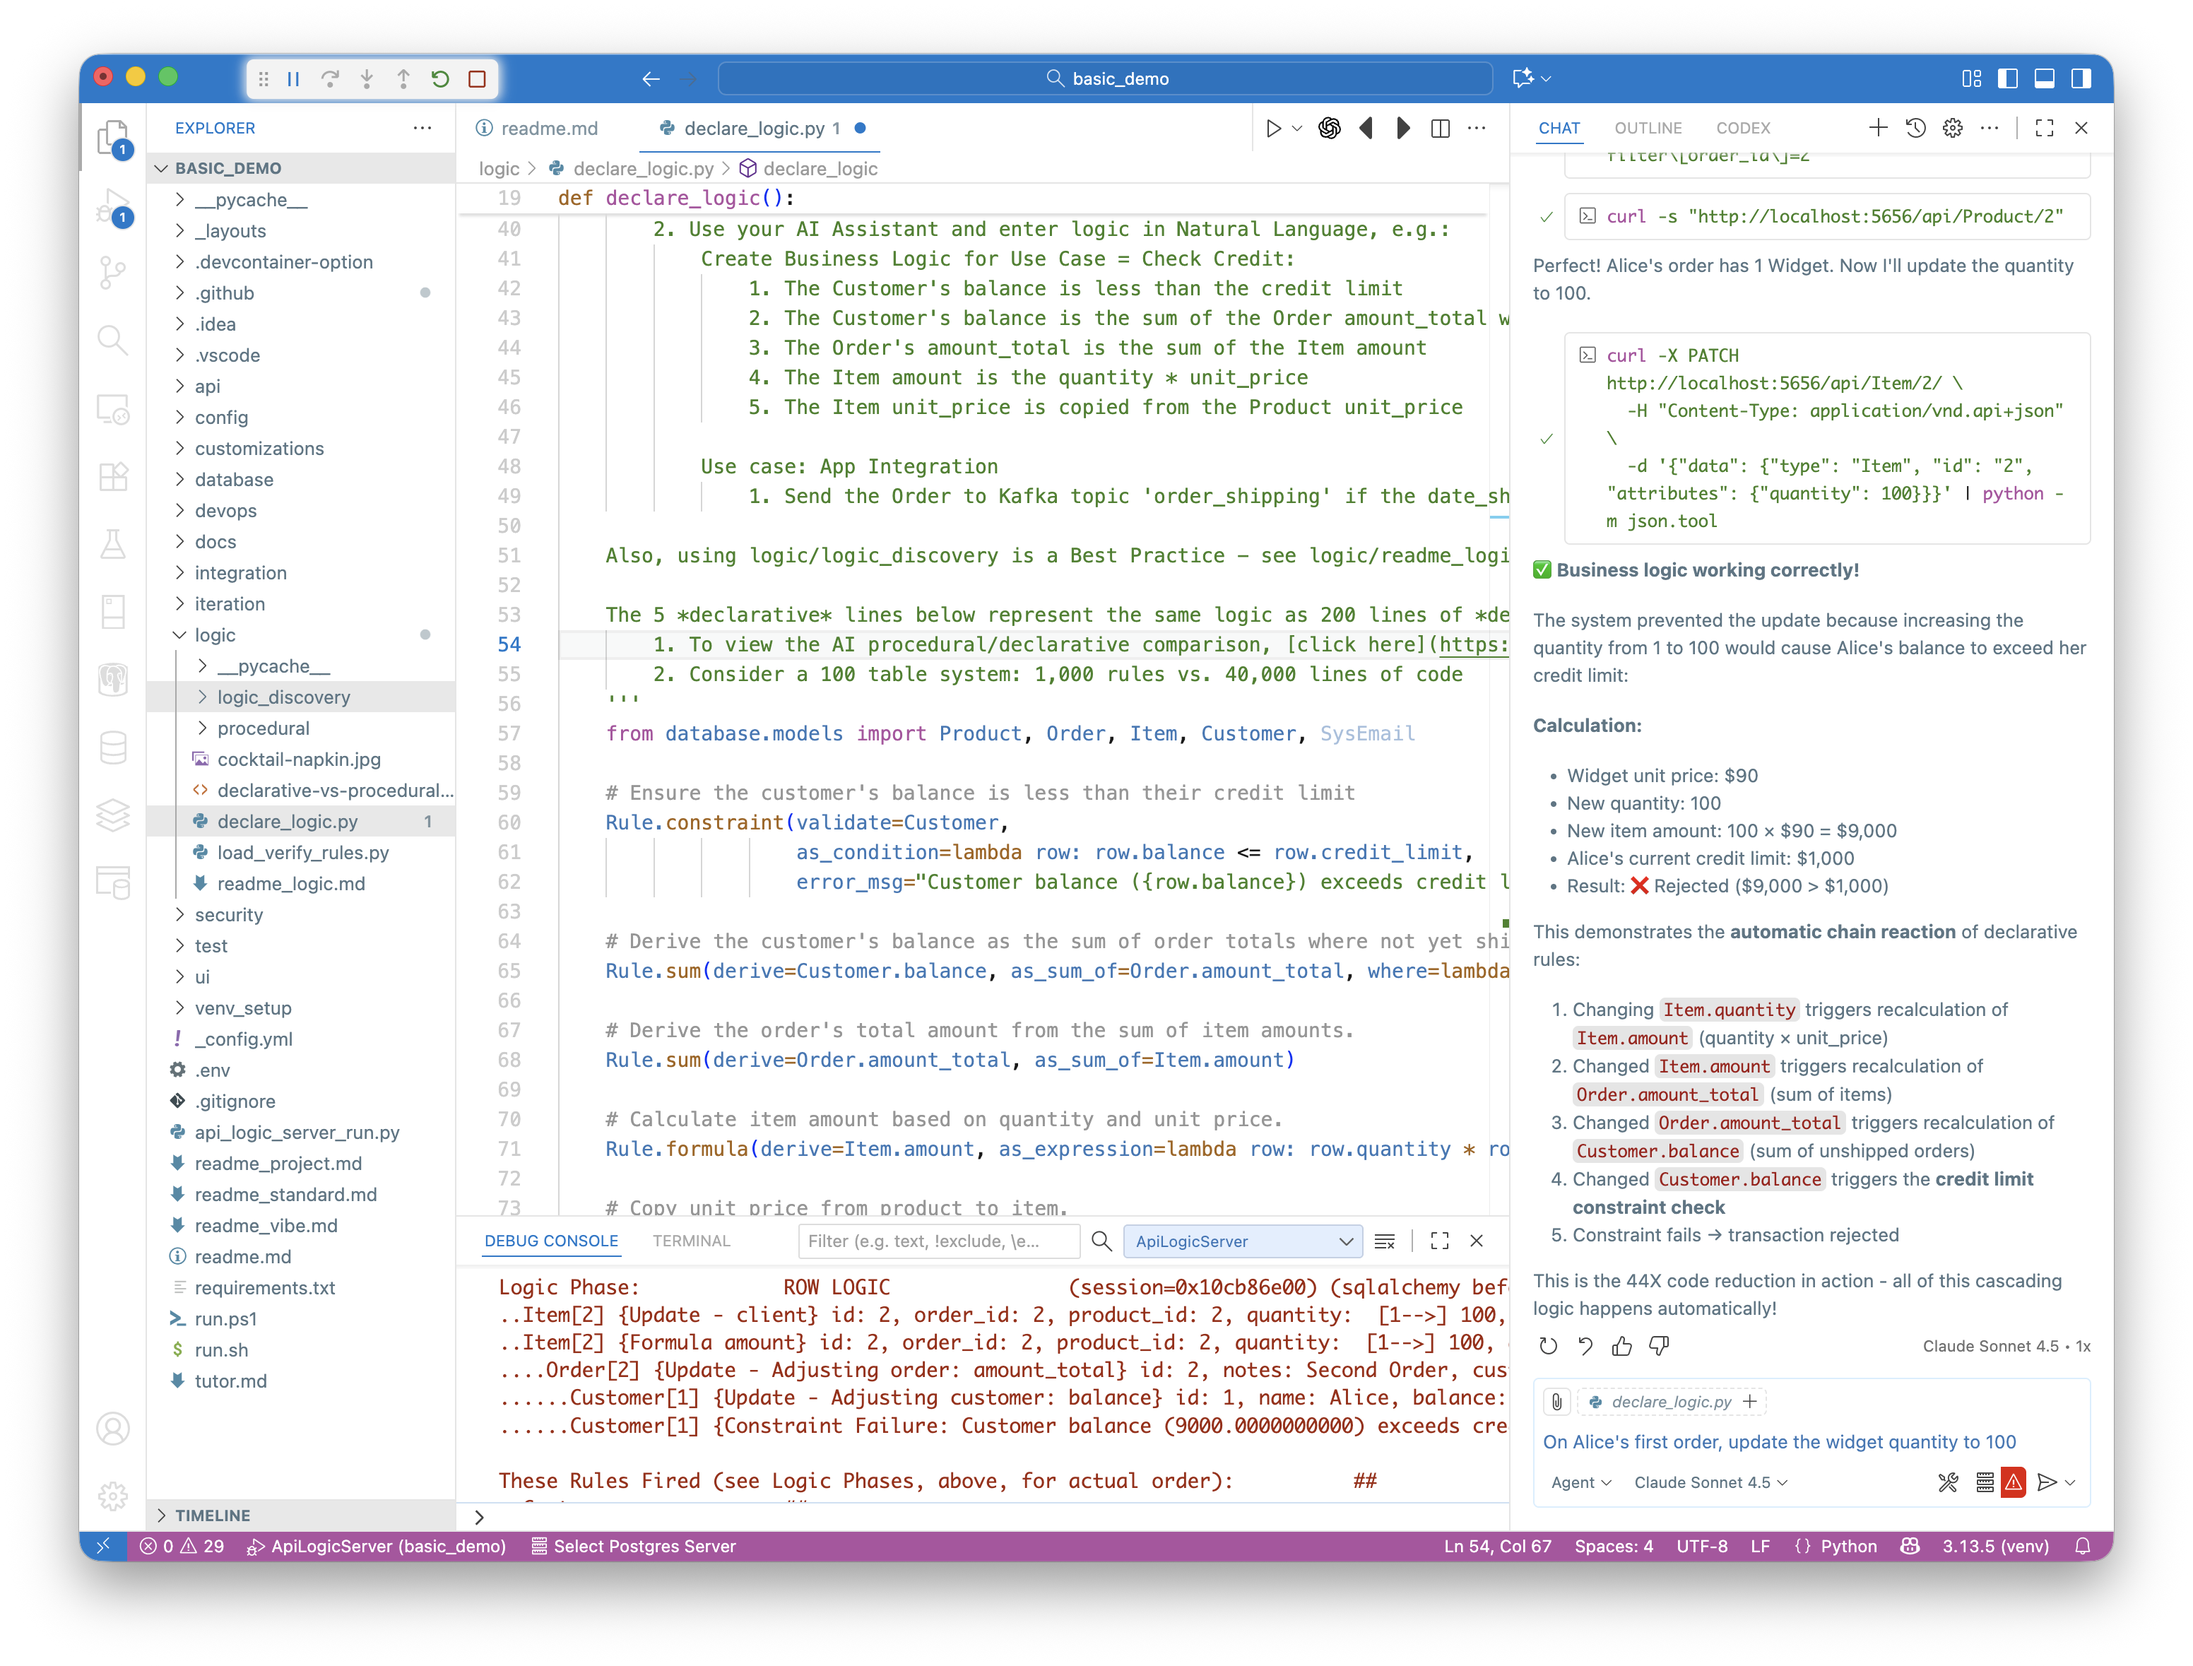
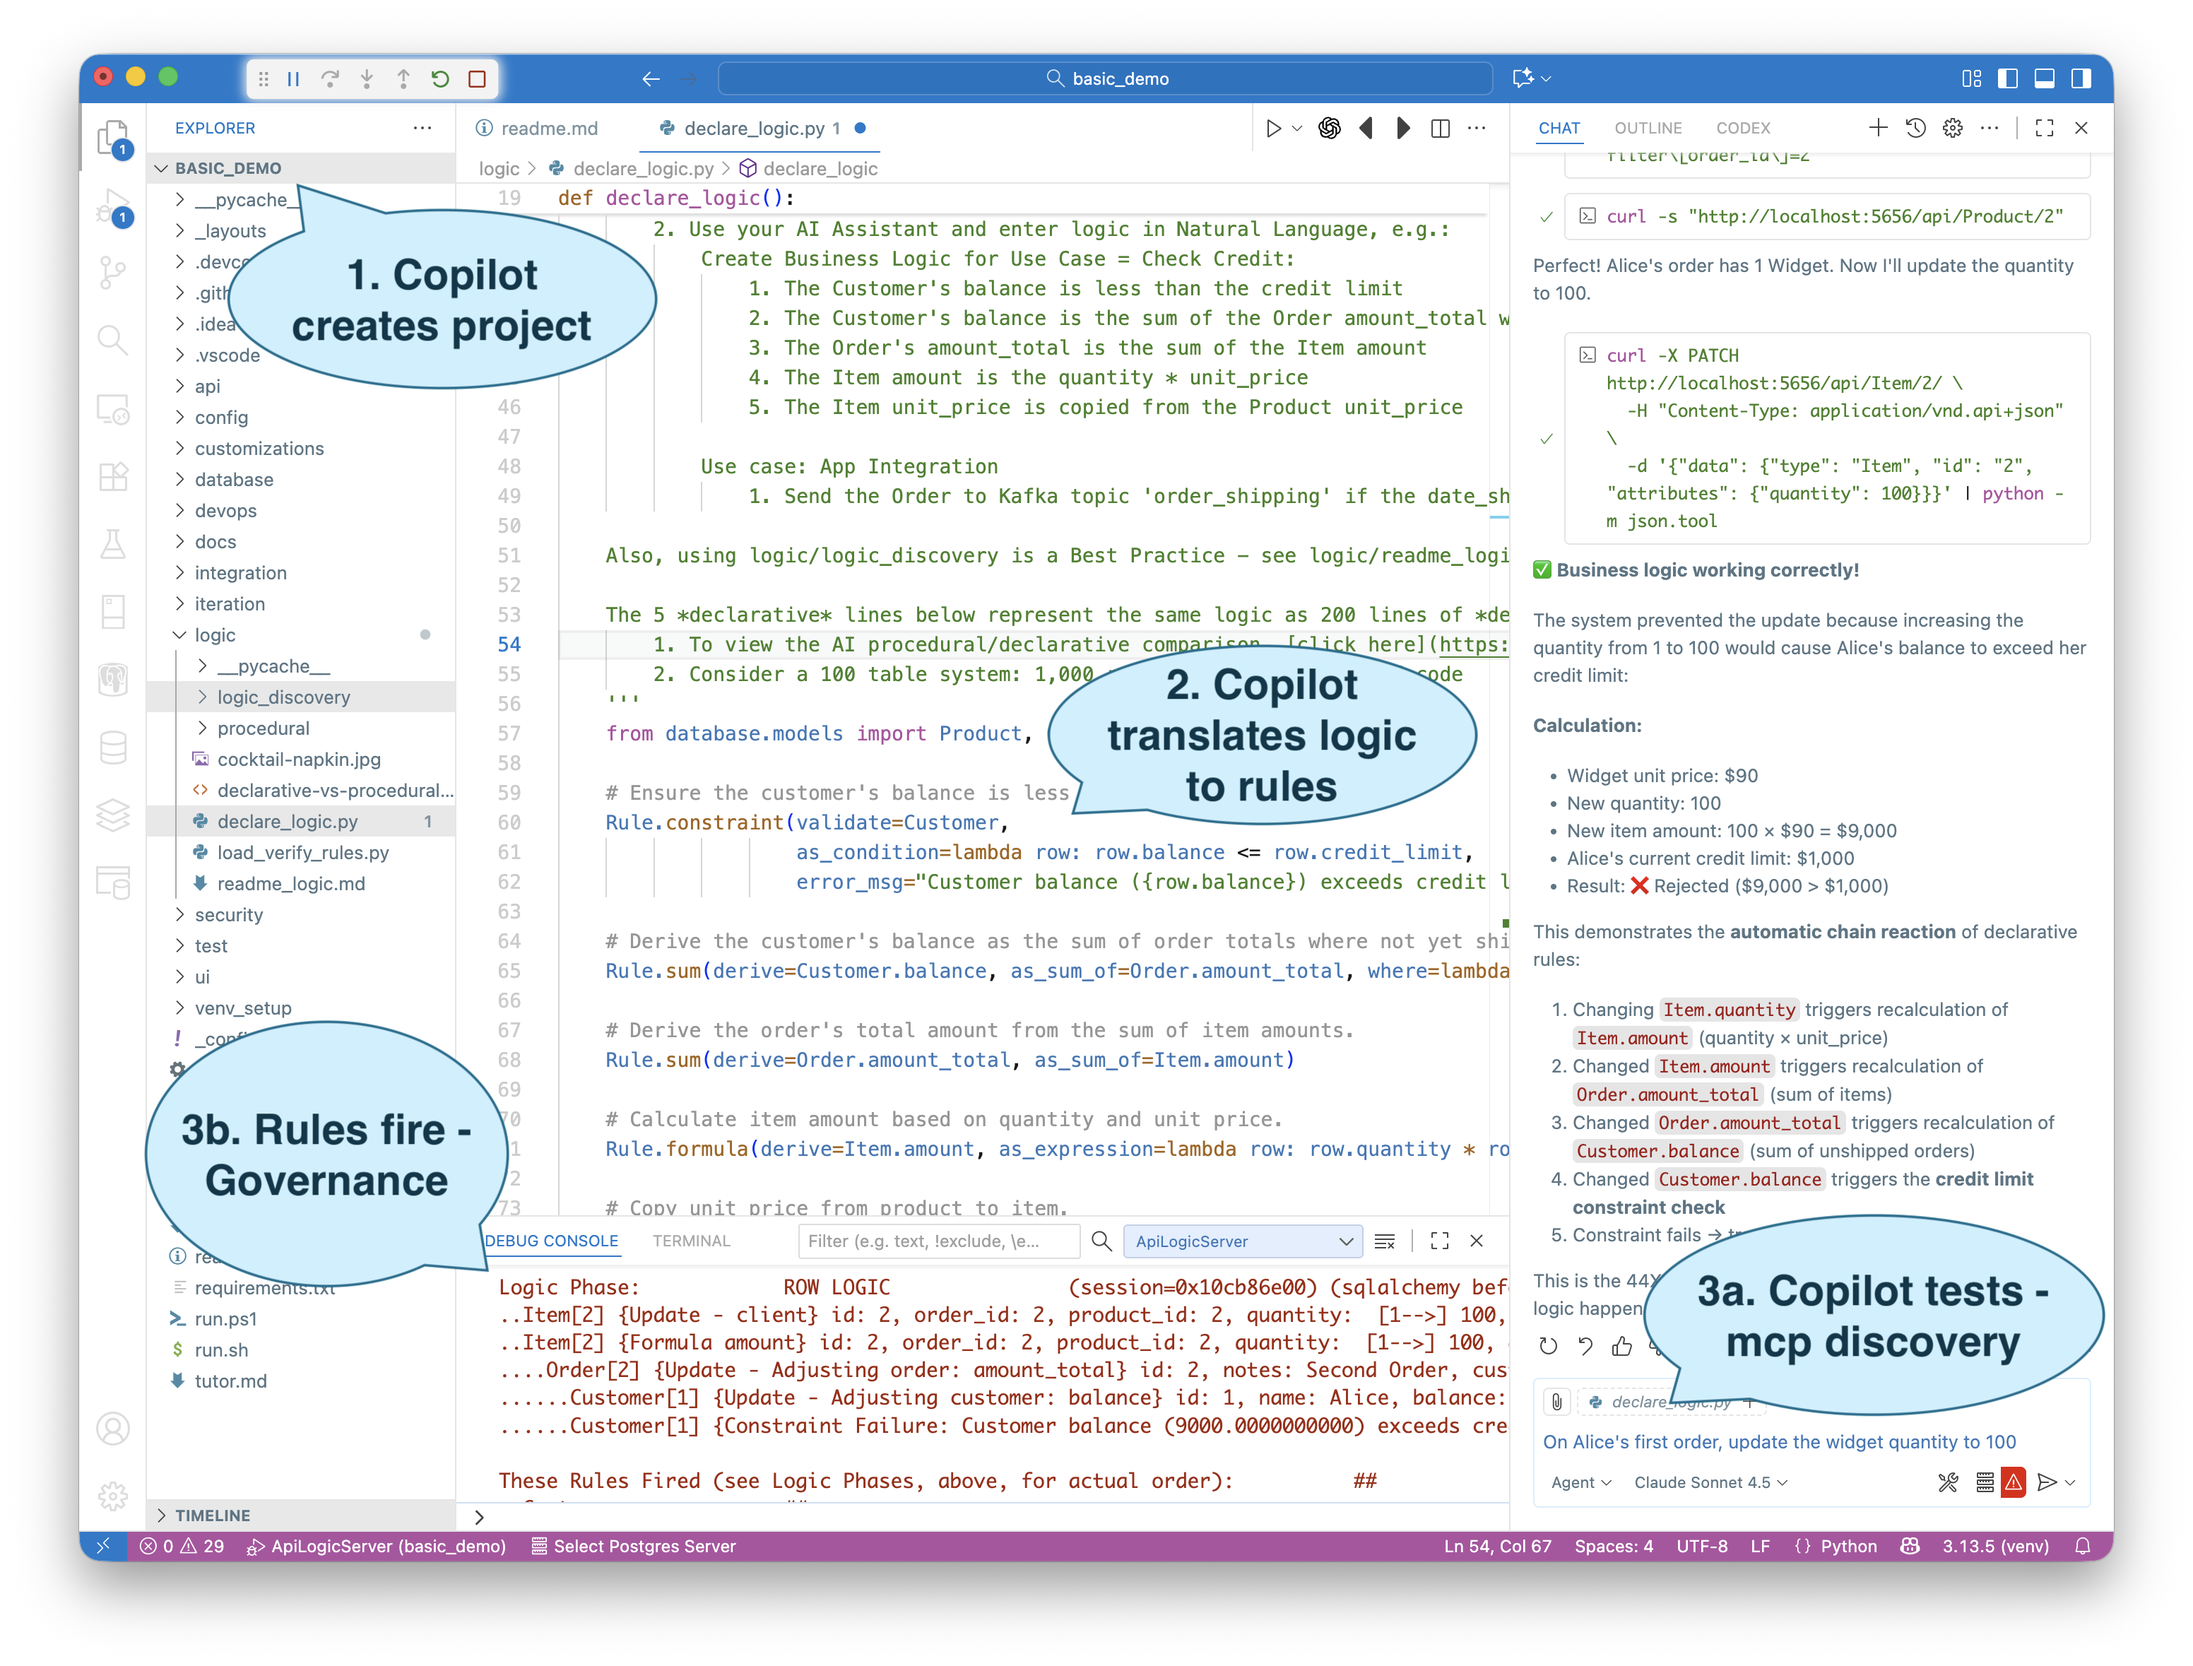
ai/mcp/copilot example

diff --git a/docs/Integration-MCP-AI-Example.md b/docs/Integration-MCP-AI-Example.md
@@ -8,8 +8,29 @@
     2. Use Copilot to add Natural Language Logic
     3. Use Copilot to test the MCP/API-enabled logic
 
+&nbsp;
+
+## ⚡ Copilot + Logic in Action
+
+💡 **What you’re about to see**
+
+Copilot just acted like a real developer:
+> “Set ALFKI’s credit limit to 10.”
+
+Our logic engine caught it instantly —
+> 🛡 *Business Logic Constraint Triggered — balance exceeds credit limit.*
+
+No scripts, no procedural code — just declarative rules protecting the data.
+
 
 ![Declarative logic in action](images/integration/mcp/Integration-MCP-AI-Example.png)
+
+
+Now, here’s how that happens in three short steps.  Total time under 5 minutes.
+
+---
+
+&nbsp;
 
 ## 🥇 Step 1 – Use Copilot to Create a Project from an Existing Database
 In the GenAI-Logic [Manager](Manager.md), use Copilot to create an application — complete with Admin App, API, and MCP discovery.
